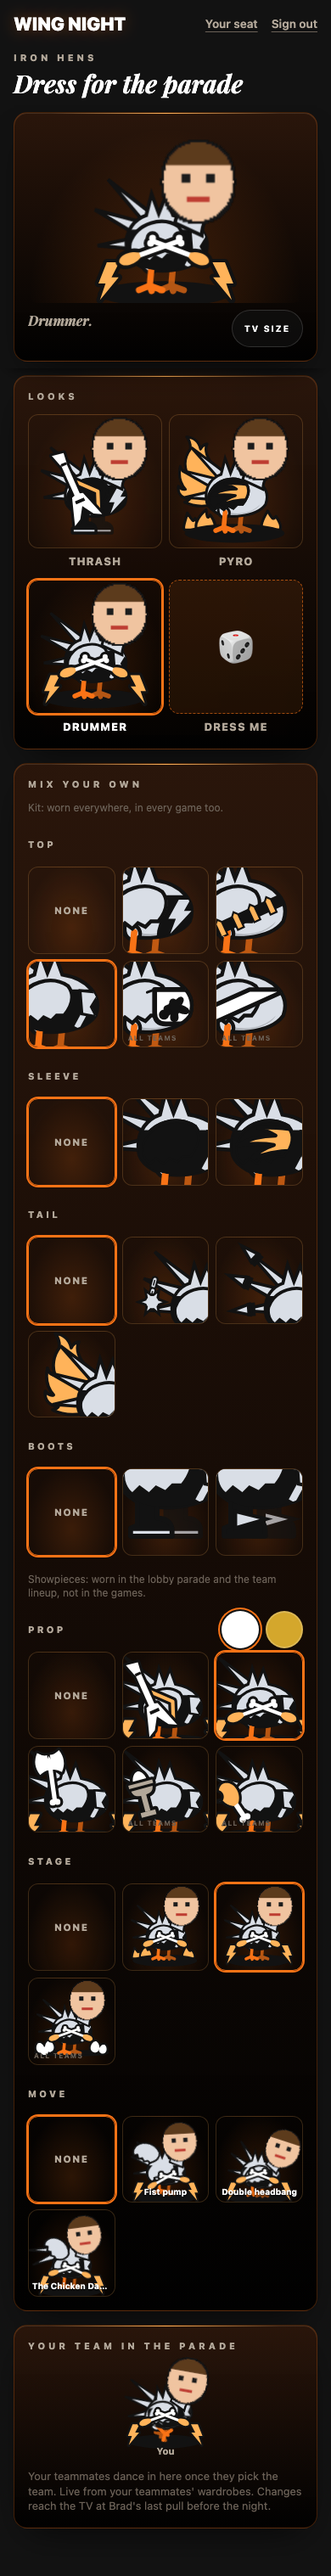
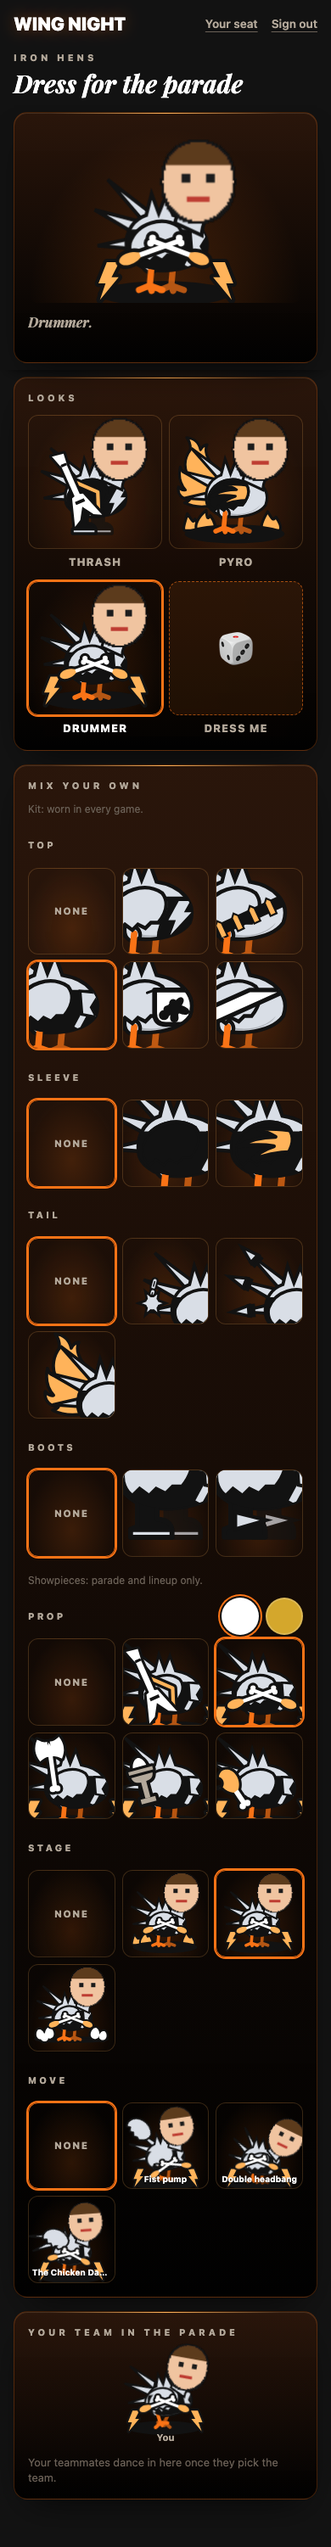
Strip the wardrobe page's chrome
Cut from /me/wardrobe, as things a guest does not need to dress a bird:

- The TV-size pill and its 130px and 76px previews. Judging an item's
  legibility is a design question, and the harness still answers it.
- The "All teams" badge on shared-rail tiles.
- The fine print under the team about live wardrobes and the last pull.
  The line for a team of one stays.

The rail's two group lines are shorter: "Kit: worn in every game." and
"Showpieces: parade and lineup only." With the pill gone the status line
has the stage card's full width again, and the portal spec no longer
checks that the photo head clears the pill.

diff --git a/apps/client/src/components/PortalWardrobe/WardrobeStage/index.tsx b/apps/client/src/components/PortalWardrobe/WardrobeStage/index.tsx
@@ -1,4 +1,4 @@
-import { useEffect, useRef, useState, type ReactNode, type RefObject } from "react";
+import { useEffect, useRef, useState, type RefObject } from "react";
 import { Character, type CharacterAppearance, type CharacterMove } from "@wingnight/cast";
 import type { TeamTheme } from "@wingnight/shared";
 
@@ -24,17 +24,12 @@ type WardrobeStageProps = {
   label: string;
   // The page's beat (`beatCue`): a tapped Move starts on the next one, on the parade's bar.
   beatRootRef: RefObject<HTMLElement | null>;
-  // The page's status line, which sits under the stage beside the TV-size pill.
-  children: ReactNode;
 };
 
 // The top of the wardrobe (research §2.5): your bird on its Stage, in its team's colour,
 // idling, kept in view while the page scrolls under it (the page pins it). Tap it to play its
-// Move. The TV-size pill, under the stage beside the status line, swaps it for the bird at the
-// sizes the room will see it — 130px in the parade, blurred as from the couch, and 76px in a
-// game, kit only — which is honest, and steers a guest off an item too quiet to read.
-export const WardrobeStage = ({ appearance, theme, move, label, beatRootRef, children }: WardrobeStageProps): JSX.Element => {
-  const [isTvSize, setIsTvSize] = useState(false);
+// Move.
+export const WardrobeStage = ({ appearance, theme, move, label, beatRootRef }: WardrobeStageProps): JSX.Element => {
   const [play, setPlay] = useState({ count: 0, isPlaying: false });
   const timerRef = useRef<number | null>(null);
   const cancelCueRef = useRef<(() => void) | null>(null);
@@ -82,67 +77,32 @@ export const WardrobeStage = ({ appearance, theme, move, label, beatRootRef, chi
     );
   };
 
-  const birdProps = {
-    appearance,
-    apparel: theme.apparel,
-    silhouette: theme.silhouette,
-    dance: theme.dance,
-    fillClassName: theme.colorVariant.characterFillClassName
-  };
-
   return (
-    <div className={styles.root}>
-      <div className={isTvSize ? styles.stageTv : styles.stage} data-testid="wardrobe-stage" data-team-color={theme.colorToken}>
-        {isTvSize ? (
-          <div className={styles.tvRow} role="img" aria-label={wardrobeStageCopy.tvLabel(label)}>
-            <figure className={styles.tvFigure}>
-              <span className={styles.tvBird130}>
-                <Character {...birdProps} pose="idle" showpieces />
-              </span>
-              <figcaption className={styles.tvCaption}>{wardrobeStageCopy.parade}</figcaption>
-            </figure>
-            <figure className={styles.tvFigure}>
-              <span className={styles.tvBird76}>
-                <Character {...birdProps} pose="still" />
-              </span>
-              <figcaption className={styles.tvCaption}>{wardrobeStageCopy.game}</figcaption>
-            </figure>
-          </div>
-        ) : (
-          <button
-            type="button"
-            className={styles.birdButton}
-            onClick={playMove}
-            aria-label={move === undefined ? label : wardrobeStageCopy.playLabel(label)}
-            aria-disabled={move === undefined}
-            data-testid="wardrobe-bird"
-            data-playing-move={play.isPlaying ? move : undefined}
-          >
-            <span className={styles.bird}>
-              <Character
-                key={play.count}
-                {...birdProps}
-                pose="idle"
-                showpieces
-                move={play.isPlaying ? move : undefined}
-              />
-            </span>
-          </button>
-        )}
-        {!isTvSize && move !== undefined && <span className={styles.hint}>{wardrobeStageCopy.hint}</span>}
-      </div>
-      <div className={styles.foot}>
-        {children}
-        <button
-          type="button"
-          className={isTvSize ? styles.tvPillOn : styles.tvPill}
-          aria-pressed={isTvSize}
-          onClick={(): void => setIsTvSize((current) => !current)}
-          data-testid="wardrobe-tv-size"
-        >
-          {wardrobeStageCopy.tvSize}
-        </button>
-      </div>
+    <div className={styles.stage} data-testid="wardrobe-stage" data-team-color={theme.colorToken}>
+      <button
+        type="button"
+        className={styles.birdButton}
+        onClick={playMove}
+        aria-label={move === undefined ? label : wardrobeStageCopy.playLabel(label)}
+        aria-disabled={move === undefined}
+        data-testid="wardrobe-bird"
+        data-playing-move={play.isPlaying ? move : undefined}
+      >
+        <span className={styles.bird}>
+          <Character
+            key={play.count}
+            appearance={appearance}
+            apparel={theme.apparel}
+            silhouette={theme.silhouette}
+            dance={theme.dance}
+            fillClassName={theme.colorVariant.characterFillClassName}
+            pose="idle"
+            showpieces
+            move={play.isPlaying ? move : undefined}
+          />
+        </span>
+      </button>
+      {move !== undefined && <span className={styles.hint}>{wardrobeStageCopy.hint}</span>}
     </div>
   );
 };

diff --git a/apps/client/src/components/PortalWardrobe/WardrobeStage/styles.ts b/apps/client/src/components/PortalWardrobe/WardrobeStage/styles.ts
@@ -1,14 +1,7 @@
-// The stage with its foot: the status line and the TV-size pill on one row under it.
-export const root = "flex flex-col gap-2";
-
 // The stage: about a quarter of a phone's height, short enough to stay pinned over the Looks
-// and the rail, the hearth's heat pooled under the bird like the studio's (PortalHeadBird). At
-// TV size it goes dark, as the room is, and grows to hold the 130px bird and its head.
-const stageBase = "relative flex items-end justify-center overflow-hidden rounded-xl pb-3";
-
-export const stage = `${stageBase} h-[min(13rem,28svh)] bg-[radial-gradient(ellipse_at_50%_100%,theme(colors.primary/22%)_0%,transparent_70%)]`;
-
-export const stageTv = `${stageBase} h-[min(20rem,40svh)] bg-bg`;
+// and the rail, the hearth's heat pooled under the bird like the studio's (PortalHeadBird).
+export const stage =
+  "relative flex h-[min(13rem,28svh)] items-end justify-center overflow-hidden rounded-xl bg-[radial-gradient(ellipse_at_50%_100%,theme(colors.primary/22%)_0%,transparent_70%)] pb-3";
 
 export const birdButton =
   "flex h-full w-full cursor-pointer items-end justify-center border-0 bg-transparent p-0 focus-visible:outline-none focus-visible:ring-2 focus-visible:ring-glow aria-disabled:cursor-default";
@@ -20,24 +13,3 @@ export const birdButton =
 export const bird = "block h-[min(9.5rem,20svh)]";
 
 export const hint = "pointer-events-none absolute left-3 top-3 text-[0.72rem] text-mutedWarmDim";
-
-export const foot = "flex items-center gap-3";
-
-const pillBase =
-  "inline-flex min-h-[44px] flex-none items-center rounded-full px-3.5 text-[0.64rem] font-bold uppercase tracking-[0.18em] focus-visible:outline-none focus-visible:ring-2 focus-visible:ring-glow";
-
-export const tvPill = `${pillBase} border border-text/15 bg-bg/60 text-text`;
-
-export const tvPillOn = `${pillBase} border border-primary bg-primary/20 text-text`;
-
-export const tvRow = "flex items-end gap-6 pb-1";
-
-export const tvFigure = "m-0 flex flex-col items-center gap-1.5";
-
-// The bird box at the room's sizes, in CSS pixels as a 1080p TV draws them. The parade's is
-// softened to what a guest on the couch, three metres off, can make out.
-export const tvBird130 = "block h-[130px] [filter:blur(1px)]";
-
-export const tvBird76 = "block h-[76px]";
-
-export const tvCaption = "text-[0.62rem] uppercase tracking-[0.1em] text-mutedWarmDim";

diff --git a/apps/client/src/components/PortalWardrobe/index.tsx b/apps/client/src/components/PortalWardrobe/index.tsx
@@ -187,16 +187,15 @@ const WardrobeEditor = ({ me, team, theme, genre, update }: WardrobeEditorProps)
             move={outfit.move?.item as CharacterMove | undefined}
             label={summary}
             beatRootRef={beatRootRef}
+          />
+          <p
+            className={`${save.status.kind === "failed" ? shellStyles.statusError : shellStyles.voice} ${styles.statusLine}`}
+            role="status"
+            data-testid="wardrobe-status"
+            data-save-state={save.status.kind}
           >
-            <p
-              className={`${save.status.kind === "failed" ? shellStyles.statusError : shellStyles.voice} ${styles.statusLine}`}
-              role="status"
-              data-testid="wardrobe-status"
-              data-save-state={save.status.kind}
-            >
-              {statusText}
-            </p>
-          </WardrobeStage>
+            {statusText}
+          </p>
         </section>
       </div>
       <section className={shellStyles.card} aria-labelledby="wardrobe-looks-title">
@@ -235,10 +234,7 @@ const WardrobeEditor = ({ me, team, theme, genre, update }: WardrobeEditorProps)
           theme={theme}
           me={{ guestId: me.guestId, displayName: me.displayName, headSrc, outfit }}
         />
-        <p className={styles.fine}>
-          {team.members.length <= 1 ? `${wardrobeTeamCopy.alone} ` : ""}
-          {wardrobeTeamCopy.fine}
-        </p>
+        {team.members.length <= 1 && <p className={styles.fine}>{wardrobeTeamCopy.alone}</p>}
       </section>
     </div>
   );

diff --git a/tests/e2e-portal/wardrobe.spec.ts b/tests/e2e-portal/wardrobe.spec.ts
@@ -310,18 +310,6 @@ test("every genre's /me card and wardrobe fit a 390px phone: rail, tiles, swatch
     const genre = (await page.getByTestId("wardrobe-rail").getAttribute("data-genre")) ?? "";
     genres.push(genre);
 
-    // The photo head (the one portal.spec.ts painted, when it ran first) rises past the bird's box
-    // on the right: it stays clear of the TV-size pill, which sits under the stage.
-    const headUnderPill = await page.evaluate(() => {
-      const head = document.querySelector('[data-testid="wardrobe-bird"] [data-character-head] image')?.getBoundingClientRect();
-      const pill = document.querySelector('[data-testid="wardrobe-tv-size"]')?.getBoundingClientRect();
-
-      return head === undefined || pill === undefined
-        ? null
-        : head.bottom > pill.top && head.top < pill.bottom && head.right > pill.left && head.left < pill.right;
-    });
-    expect(headUnderPill, `${genre} head and pill`).not.toBe(true);
-
     // The dice and every Look dress the bird and save.
     await page.getByTestId("wardrobe-dress-me").click();
     await expectSaved(page);

diff --git a/apps/client/src/components/PortalWardrobe/styles.ts b/apps/client/src/components/PortalWardrobe/styles.ts
@@ -13,9 +13,9 @@ export const stageDock =
   "z-20 -mx-4 -my-2 px-4 py-2 [@media(min-height:520px)]:sticky [@media(min-height:520px)]:top-0 [@media(min-height:520px)]:bg-bg/95 [@media(min-height:520px)]:[box-shadow:0_8px_16px_-12px_theme(colors.shade)]";
 
 // Two lines at most, so a long outfit never grows the pinned stage over the page.
-export const statusLine = "line-clamp-2 min-h-[2.6em] min-w-0 flex-1";
+export const statusLine = "line-clamp-2 min-h-[2.6em]";
 
-// What reaches the TV, in one line under the team.
+// The one line under a team of one.
 export const fine = "m-0 text-[0.8rem] leading-snug text-mutedWarmDim";
 
 // A whole page that is one message (no team yet): the message, then the way back.

diff --git a/apps/client/src/components/PortalWardrobe/WardrobeRail/copy.ts b/apps/client/src/components/PortalWardrobe/WardrobeRail/copy.ts
@@ -1,9 +1,8 @@
 // Every word on the wardrobe's rail. No item names on the tiles (research §2.5): a name is said
 // in the status line when it is tapped, and read out by a screen reader from the tile's label.
 export const wardrobeRailCopy = {
-  kitNote: "Kit: worn everywhere, in every game too.",
-  showpieceNote: "Showpieces: worn in the lobby parade and the team lineup, not in the games.",
+  kitNote: "Kit: worn in every game.",
+  showpieceNote: "Showpieces: parade and lineup only.",
   none: "None",
-  shared: "All teams",
   stylesLabel: (slot: string): string => `${slot} styles`
 } as const;

diff --git a/apps/client/src/components/PortalWardrobe/WardrobeRail/styles.ts b/apps/client/src/components/PortalWardrobe/WardrobeRail/styles.ts
@@ -29,9 +29,6 @@ export const none = "text-[0.72rem] font-extrabold uppercase tracking-[0.14em] t
 export const moveName =
   "pointer-events-none absolute inset-x-0 bottom-1 truncate px-1 text-center text-[0.62rem] font-bold text-text [text-shadow:0_1px_2px_theme(colors.shade)]";
 
-export const shared =
-  "pointer-events-none absolute bottom-1 left-1.5 text-[0.5rem] font-bold uppercase tracking-[0.14em] text-mutedWarmDim";
-
 export const styleRow = "flex items-center gap-2";
 
 const swatchBase =

diff --git a/apps/client/src/components/PortalWardrobe/WardrobeStage/copy.ts b/apps/client/src/components/PortalWardrobe/WardrobeStage/copy.ts
@@ -1,9 +1,5 @@
 // Every word on the wardrobe's stage.
 export const wardrobeStageCopy = {
   hint: "Tap your bird to see its move",
-  tvSize: "TV size",
-  parade: "130 · the parade",
-  game: "76 · in a game",
-  playLabel: (label: string): string => `${label} Tap to play its move.`,
-  tvLabel: (label: string): string => `${label} At TV size: 130 pixels in the parade, 76 in a game.`
+  playLabel: (label: string): string => `${label} Tap to play its move.`
 } as const;

diff --git a/apps/client/src/components/PortalWardrobe/WardrobeRail/index.tsx b/apps/client/src/components/PortalWardrobe/WardrobeRail/index.tsx
@@ -201,7 +201,6 @@ const WardrobeSlot = ({ genre, slot, theme, outfit, dressBird, onDress, onRestyl
                 move={slot === "move" ? (item.id as CharacterMove) : undefined}
               />
               {slot === "move" && <span className={styles.moveName}>{item.name}</span>}
-              {item.genre === "shared" && slot !== "move" && <span className={styles.shared}>{wardrobeRailCopy.shared}</span>}
             </button>
           );
         })}

diff --git a/apps/client/src/components/PortalWardrobe/WardrobeTeam/copy.ts b/apps/client/src/components/PortalWardrobe/WardrobeTeam/copy.ts
@@ -1,7 +1,6 @@
 // Every word in the wardrobe's team strip.
 export const wardrobeTeamCopy = {
   eyebrow: "Your team in the parade",
-  fine: "Live from your teammates' wardrobes. Changes reach the TV at Brad's last pull before the night.",
   alone: "Your teammates dance in here once they pick the team.",
   you: "You",
   birdLabel: (name: string, isMe: boolean): string => (isMe ? "Your bird, dancing" : `${name}'s bird, dancing`)

diff --git a/docs/bird-wardrobe-build-plan.md b/docs/bird-wardrobe-build-plan.md
@@ -259,8 +259,7 @@ tabs. `/me/wardrobe` is now one scrolling page:
 
 1. **The stage, pinned.** The bird sticks to the top of the screen (on a screen at least 520px
    tall), so a tap anywhere on the page shows on it. It is shorter than it was (28svh, down from
-   40svh) to leave the page room. The status line sits under it, held to two lines, with the
-   TV-size pill beside it instead of over the bird.
+   40svh) to leave the page room. The status line sits under it, held to two lines.
 2. **Looks.** Two across, each the guest's own bird wearing the whole Look, with its name under
    it. The dice takes the cell an odd number of Looks leaves, or a bar under an even number.
 3. **Mix your own.** Every slot under its own heading, kit first and showpieces after, each group
@@ -271,6 +270,19 @@ tabs. `/me/wardrobe` is now one scrolling page:
 Nothing about the data or the saves changed. This departs from `mockups/cast/wardrobe-picker.html`
 (a Looks row and slot tabs), which was not redrawn. Screenshots are in
 `docs/screenshots/wardrobe/one-page/`.
+
+## Page chrome stripped (2026-11-16)
+
+Cut from `/me/wardrobe`, as things a guest does not need to dress a bird:
+
+- **The TV-size pill** and its 130px and 76px previews. It was a way to judge an item's
+  legibility, which is a design question; the harness still answers it.
+- **The "All teams" badge** on shared-rail tiles.
+- **The fine print under the team** about live wardrobes and the last pull. The line for a team
+  of one ("Your teammates dance in here once they pick the team.") stays.
+
+The two group lines on the rail are shorter: "Kit: worn in every game." and "Showpieces: parade
+and lineup only." With the pill gone the status line has the stage card's full width again.
 
 ## Rules every agent brief carries
 
